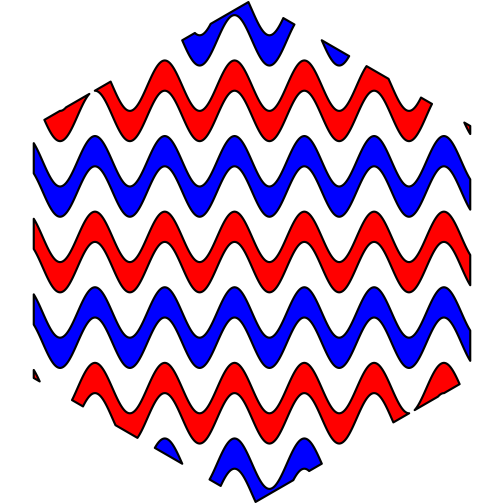
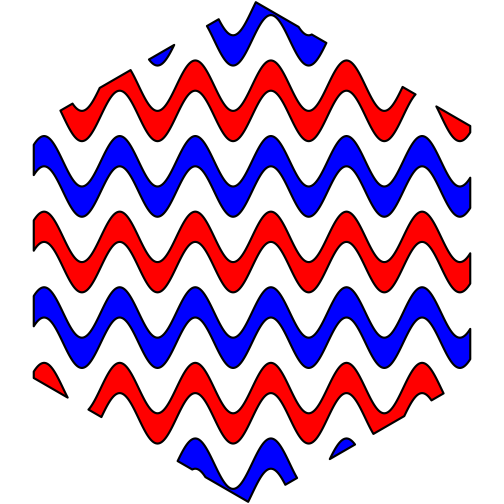
feat: Pattern-specific `defaults` use `pattern_` prefixed names (#108)
- `register_pattern()` / `local_pattern()` `defaults` names are now used
  as-is (e.g. `pattern_spacing`) instead of being auto-prefixed.
  Unprefixed names are an error of class
  `gridpattern_error_unprefixed_defaults` unless declared in the new
  `unprefixed` argument (e.g. `unprefixed = "fill"` for the plain
  `{ggplot2}` aesthetic `{ggpattern}` passes along); `pattern` is rejected.
- Generic defaults are filled first and then pattern-specific defaults
  in the order given; a function default returning a length-zero value
  is an error.
- `pattern_amplitude` and the `{ambient}` noise parameters are no longer
  generic defaults but pattern-specific defaults of "wave" / "ambient";
  `pattern_frequency`, `pattern_gravity`, and `pattern_subtype` are now
  the generic constants `0.1`, `"center"`, and `NA` (matching
  `{ggpattern}`) with "wave", "ambient", and "image" overriding them.
  Adds "weave" `pattern_fill2 = pattern_fill` default.
- "wave" now converts its own `pattern_amplitude` / `pattern_wavelength`
  units instead of the shared `convert_params_units()`.
- README and vignette examples register patterns with
  `register_pattern()` instead of the legacy global options; the
  vignette notes no defaults are set for the spare `{ggpattern}`
  aesthetics `pattern_option_1-5` and `pattern_phase`.

diff --git a/NEWS.md b/NEWS.md
@@ -1,5 +1,18 @@
-gridpattern v1.5.1 (development)
+gridpattern v1.5.0 (development)
 ================================
+
+Breaking Changes
+----------------
+
+* Custom patterns are no longer given generic default values for the `pattern_amplitude` parameter
+  nor for the `{ambient}` noise parameters (`pattern_fractal`, `pattern_octaves`, etc.).
+  These are now pattern-specific defaults of the builtin "wave" and "ambient" patterns.
+  A custom pattern that reads them should now set its own defaults
+  with `register_pattern()`'s `defaults` argument.
+  The generic defaults for `pattern_frequency` and `pattern_gravity` are now the constants
+  `0.1` and `"center"` (matching `{ggpattern}`) instead of `1 / pattern_spacing` and
+  a function of `pattern_type`; the "wave", "ambient", and "image" patterns override them.
+  `pattern_subtype` now has a generic default of `NA` (matching `{ggpattern}`).
 
 New Features
 ------------
@@ -11,7 +24,8 @@ New Features
 
   + Patterns are owned by either the package that registered them or the user.
   + `register_pattern()`'s `defaults` argument sets pattern-specific default parameter values
-    (constants or functions of the other parameters).
+    (constants or functions of the other parameters, named e.g. `pattern_spacing` or `fill`;
+    unprefixed names are an error unless declared in the `unprefixed` argument).
     The builtin patterns now use this to register their pattern-specific defaults.
   + `patternGrob()` caches the pattern resolved when the grob is created so redraws
     (e.g. resizing an interactive device) still work if the pattern is later unregistered or masked.

diff --git a/README.md b/README.md
@@ -191,6 +191,11 @@ One can also create [custom patterns](https://trevorldavis.com/R/ggpattern/dev/a
 Here is an example of creating a "tiling3" pattern that creates
 three-color polygon tilings using the ``fill`` colour, the ``pattern_fill`` colour,
 and their "average" color.
+`{ggpattern}` always passes along the ``fill`` aesthetic
+but when registering the pattern we also set a default ``fill`` of "black"
+(which contrasts with the default ``pattern_fill`` of "grey80")
+so the pattern can also be used directly with `grid.pattern()`
+(and declare ``fill`` in `unprefixed` since unprefixed parameter names are unusual).
 
 
 ``` r
@@ -213,7 +218,8 @@ tiling3_pattern <- function(params, boundary_df, aspect_ratio, legend = FALSE) {
     do.call(gridpattern::patternGrob, args)
 }
 
-options(ggpattern_geometry_funcs = list(tiling3 = tiling3_pattern))
+gridpattern::register_pattern("tiling3", tiling3_pattern,
+                              defaults = list(fill = "black"), unprefixed = "fill")
 df <- data.frame(trt = c("a", "b", "c"), outcome = c(2.3, 1.9, 3.2))
 ggplot(df, aes(trt, outcome)) +
     geom_col_pattern(aes(fill = trt, pattern_type = trt),

diff --git a/cran-comments.md b/cran-comments.md
@@ -1,8 +1,6 @@
-* Skips running a new `mix_col` example on CRAN to avoid triggering a "Examples with CPU time > 2.5 times elapsed time" NOTE
-
 ## Test environments
 
-* local (linux, R 4.6.0)
+* local (linux, R 4.6.1)
 * win-builder (windows, R devel)
 * github actions (linux, R oldrel)
 * github actions (linux, R release)
